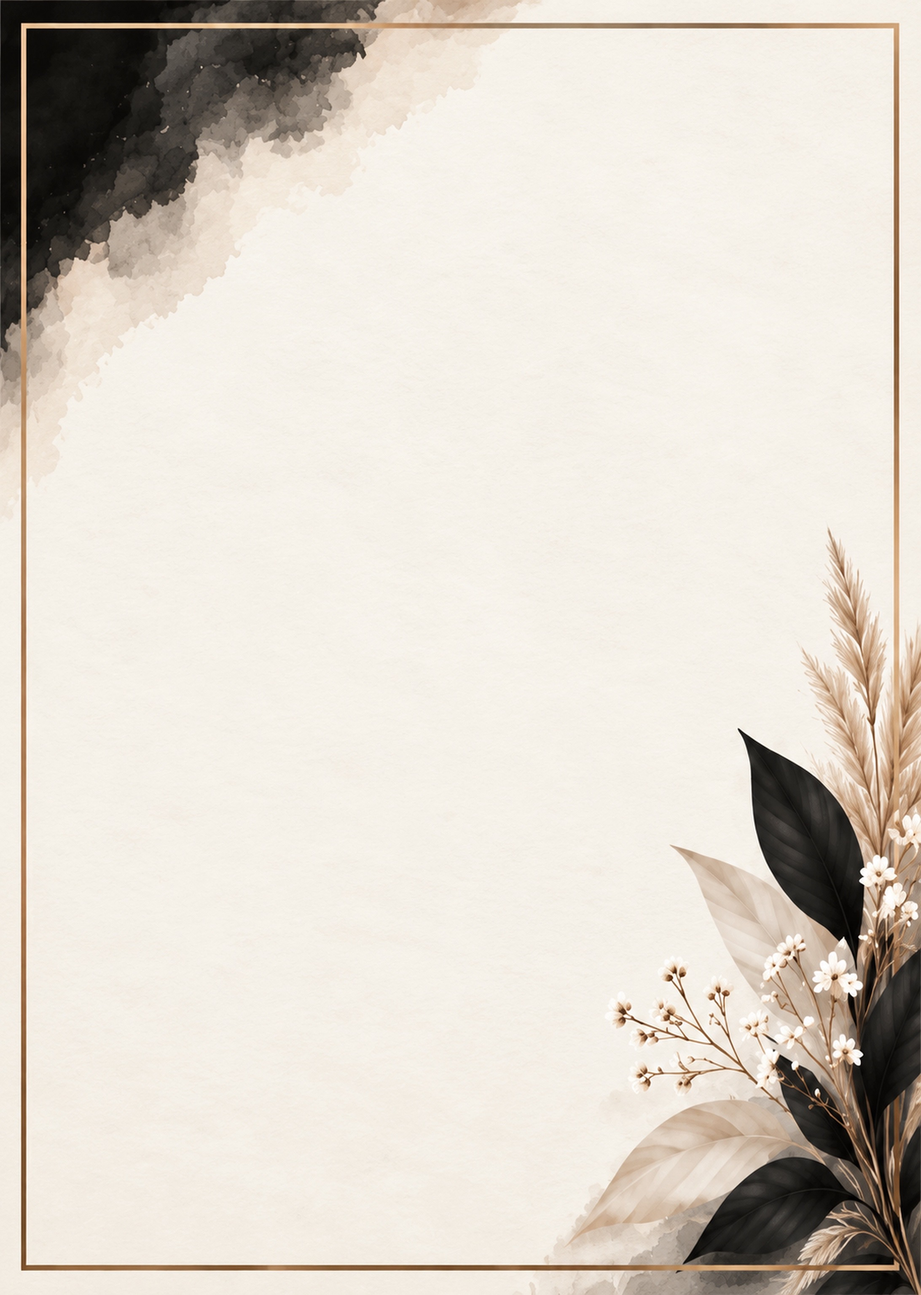
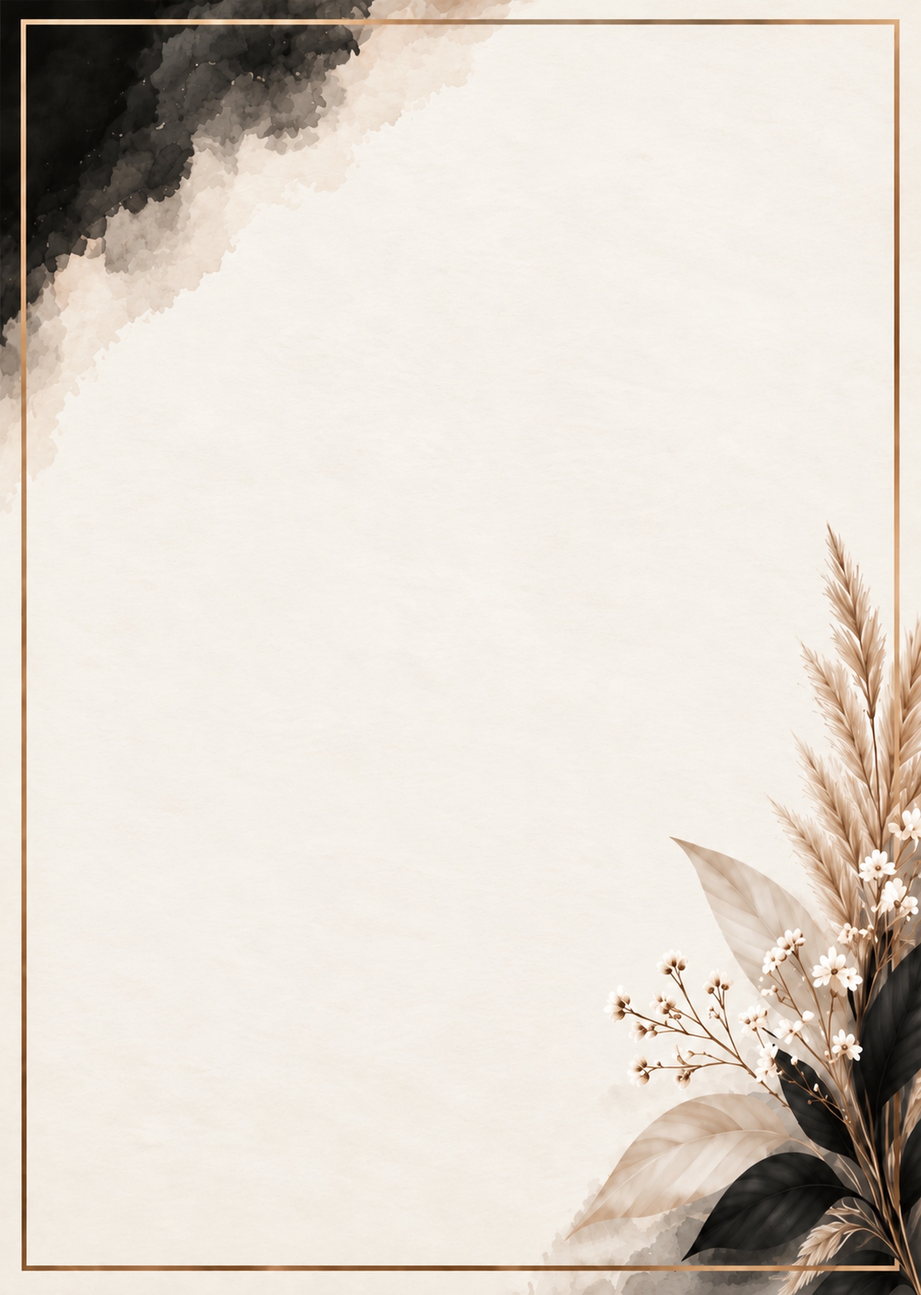
Image Changed

diff --git a/src/lib/table-pages.ts b/src/lib/table-pages.ts
@@ -17,8 +17,8 @@ export type TablePageLayout = { pages: TablePage[]; errors: string[]; warnings: 
 // Clear lettering bounds (mm) for each 1 mm row of the artwork, kept 3 mm away from the
 // ink wash (top left), the botanicals (bottom right) and inside the gold frame.
 // Rows where left equals right are not available.
-const CLEAR_LEFT = [0,0,0,0,0,0,0,0,0,0,0,0,0,0,0,0,95,95,95,95,95,86,86,86,85,85,85,84,84,80,72,72,68,68,66,66,66,66,66,66,53,53,53,53,53,50,50,51,51,51,51,51,51,51,51,48,48,48,48,45,44,44,40,39,39,38,37,32,31,28,28,28,28,25,23,23,23,23,20,19,19,19,19,16,16,16,16,15,15,15,15,15,15,15,15,14,14,14,14,14,14,14,14,14,14,14,14,14,14,14,14,14,14,14,14,14,14,14,14,14,14,14,14,14,14,14,14,14,14,14,14,14,14,14,14,14,14,14,14,14,14,14,14,14,14,14,14,14,14,14,14,14,14,14,14,14,14,14,14,14,14,14,14,14,14,14,14,14,14,14,14,14,14,14,14,14,14,14,14,14,14,14,14,14,14,14,14,14,14,14,14,14,14,14,14,14,14,14,14,14,14,14,14,14,14,14,14,14,14,14,14,14,14,14,14,14,14,14,14,14,14,14,14,14,14,14,14,14,14,14,14,14,14,14,14,14,14,14,14,14,14,14,14,14,14,0,0,0,0,0,0,0,0,0,0,0,0,0,0,0];
-const CLEAR_RIGHT = [0,0,0,0,0,0,0,0,0,0,0,0,0,0,0,0,95,95,95,171,171,171,171,171,171,171,171,171,171,171,171,171,171,171,171,171,171,171,171,171,171,171,171,171,171,171,171,171,171,171,171,171,171,171,171,171,171,171,171,171,171,171,171,171,171,171,171,171,171,171,171,171,171,171,171,171,171,171,171,171,171,171,171,171,171,171,171,171,171,171,171,171,171,171,171,171,171,171,171,171,171,171,171,162,162,162,162,162,162,162,162,162,162,162,162,162,162,162,162,162,162,162,162,162,163,163,163,157,157,157,157,157,157,157,157,157,157,158,158,159,159,160,160,144,144,144,144,144,144,144,144,145,145,146,146,146,146,146,146,146,146,147,147,147,147,147,131,131,131,131,131,131,131,131,132,133,134,135,135,136,136,136,137,137,138,138,139,139,140,140,131,130,129,129,129,129,129,129,120,120,120,119,119,119,119,119,119,119,119,120,124,124,124,124,124,124,124,119,119,119,119,119,119,119,119,125,124,123,122,121,121,120,119,119,118,115,115,115,114,113,113,112,111,111,110,0,0,0,0,0,0,0,0,0,0,0,0,0,0,0];
+const CLEAR_LEFT = [0,0,0,0,0,0,0,0,0,0,0,0,0,0,0,0,95,95,95,95,89,89,85,84,84,84,83,83,79,76,72,72,72,72,72,70,70,70,70,70,70,50,50,49,49,49,50,50,50,50,50,50,50,50,48,48,47,47,44,43,43,39,39,38,38,36,33,33,28,27,27,27,25,22,22,22,22,20,19,19,19,19,16,16,16,15,14,14,14,14,14,14,14,14,14,14,14,14,14,14,14,14,14,14,14,14,14,14,14,14,14,14,14,14,14,14,14,14,14,14,14,14,14,14,14,14,14,14,14,14,14,14,14,14,14,14,14,14,14,14,14,14,14,14,14,14,14,14,14,14,14,14,14,14,14,14,14,14,14,14,14,14,14,14,14,14,14,14,14,14,14,14,14,14,14,14,14,14,14,14,14,14,14,14,14,14,14,14,14,14,14,14,14,14,14,14,14,14,14,14,14,14,14,14,14,14,14,14,14,14,14,14,14,14,14,14,14,14,14,14,14,14,14,14,14,14,14,14,14,14,14,14,14,14,14,14,14,14,14,14,14,14,14,14,14,0,0,0,0,0,0,0,0,0,0,0,0,0,0,0];
+const CLEAR_RIGHT = [0,0,0,0,0,0,0,0,0,0,0,0,0,0,0,0,95,95,95,95,171,171,171,171,171,171,171,171,171,171,171,171,171,171,171,171,171,171,171,171,171,171,171,171,171,171,171,171,171,171,171,171,171,171,171,171,171,171,171,171,171,171,171,171,171,171,171,171,171,171,171,171,171,171,171,171,171,171,171,171,171,171,171,171,171,171,171,171,171,171,171,171,171,171,171,171,171,171,171,171,171,171,162,162,162,162,162,162,162,162,162,162,161,161,161,161,161,161,161,161,161,161,161,163,163,163,157,157,157,157,157,157,157,157,157,157,158,158,159,159,159,159,159,159,160,156,156,156,156,156,156,156,156,156,157,157,157,150,150,150,150,150,150,150,151,130,130,130,130,130,130,130,132,133,134,134,135,135,136,136,137,137,137,138,138,139,139,140,140,131,130,129,129,129,129,129,129,120,119,119,119,119,119,119,119,119,119,119,124,124,124,123,123,123,123,119,119,119,119,119,119,119,119,119,124,123,123,122,121,120,120,119,118,118,115,114,114,114,113,113,112,111,110,110,108,0,0,0,0,0,0,0,0,0,0,0,0,0,0,0];
 
 const CLEAR_MARGIN = 3;
 // Every page shares one centre line and one heading height, so the panes match.
